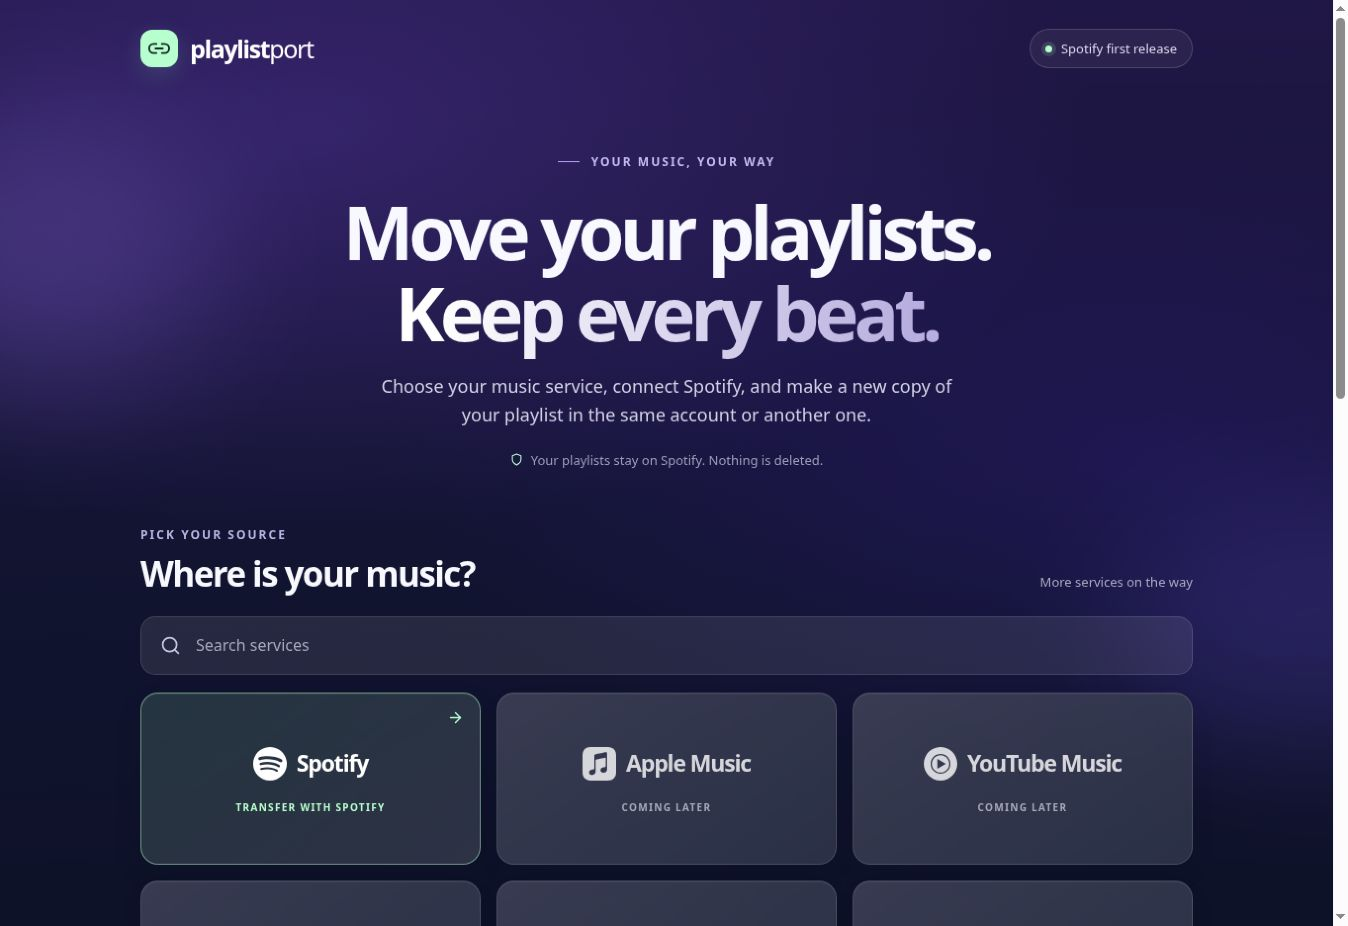
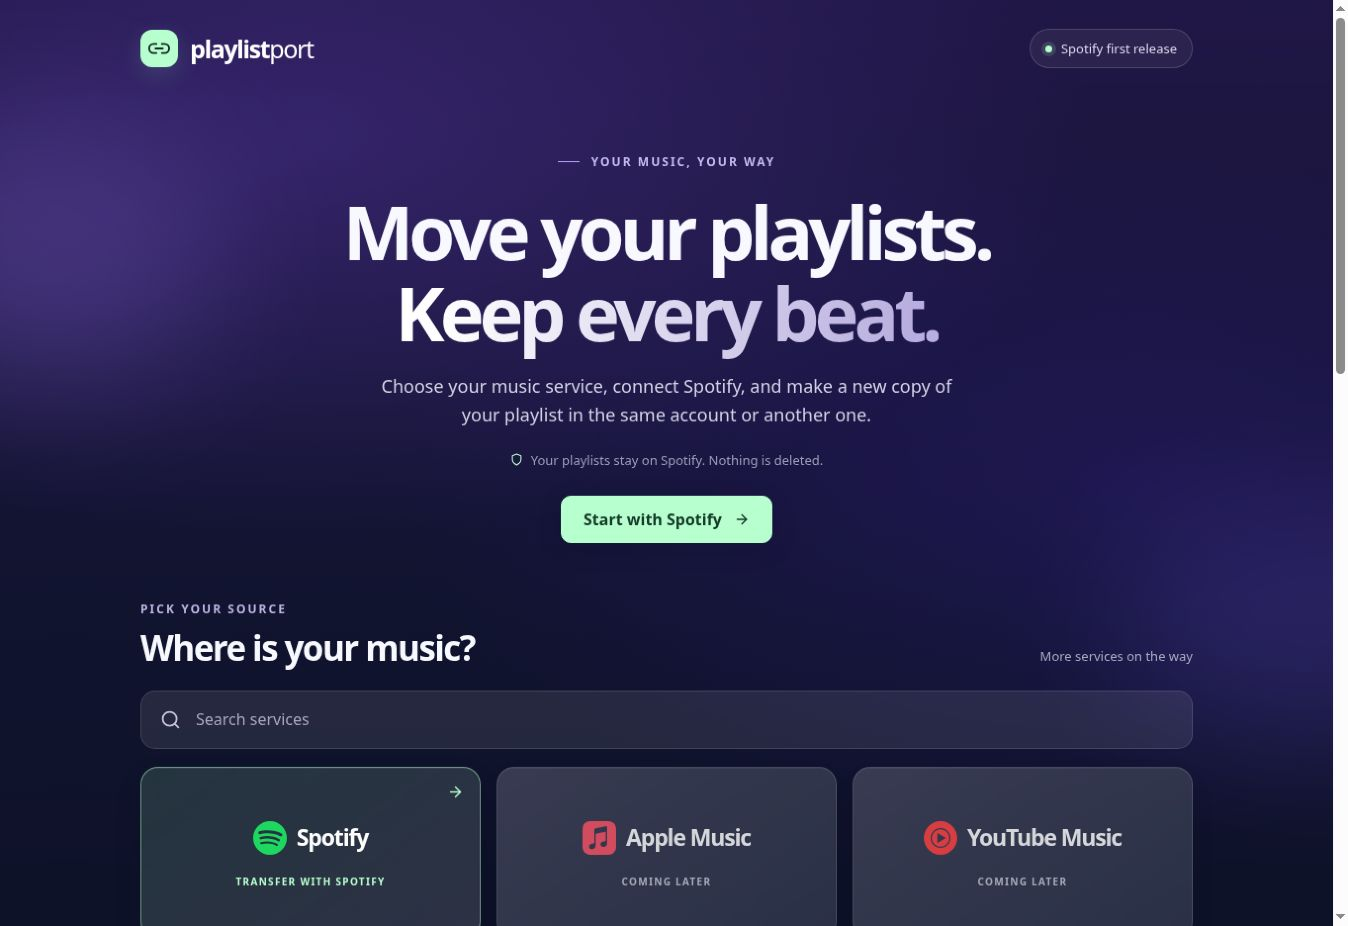
Refresh verified personal-site UI screenshots

diff --git a/src/assets/images/projects/UIUX-CAPTURES.md b/src/assets/images/projects/UIUX-CAPTURES.md
@@ -1,0 +1,10 @@
+# October 2026 live UI captures
+
+These images were captured from the verified public deployments on 8 October 2026:
+
+- `uiux-sole-storefront.jpg`: SOLE DISTRICT home, with illustrative catalogue and purchases disabled.
+- `uiux-scenthaus-filters.jpg`: SCENTHAUS collection filtered to Dior, showing the removable filter, Clear all and six matching scents.
+- `uiux-meterwise-overview.jpg`: MeterWise estate overview with real public HDB inventory and simulated energy data.
+- `playlist-port-live-home.jpg`: Playlist Port home with the new start action and authentic Spotify, Apple Music and YouTube Music marks. Other providers remain unavailable.
+
+The original captures remain available for the other case-study flows. No screenshot represents a new real payment, dispatch or authenticated playlist transfer during this refresh.
